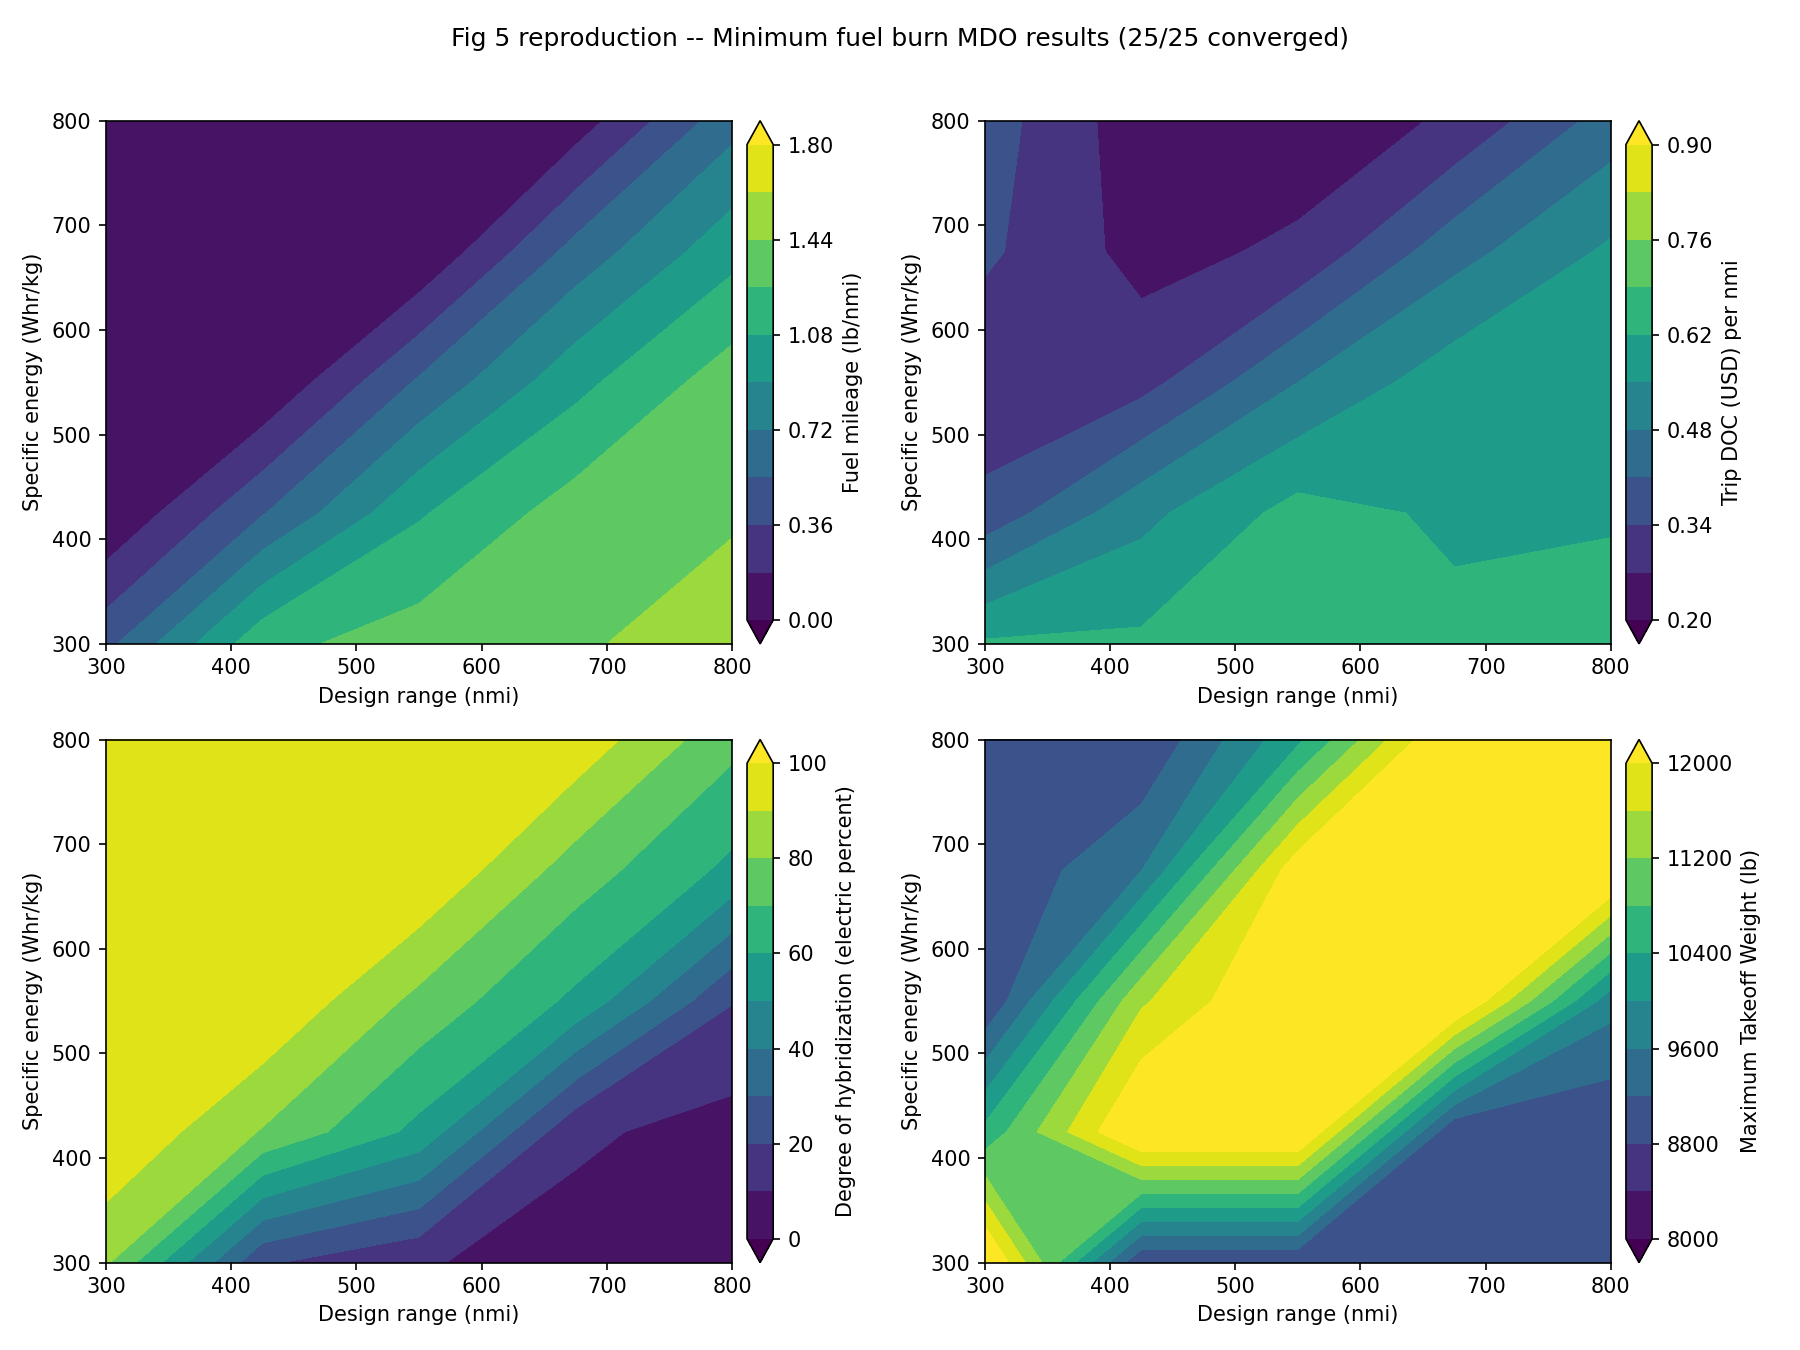
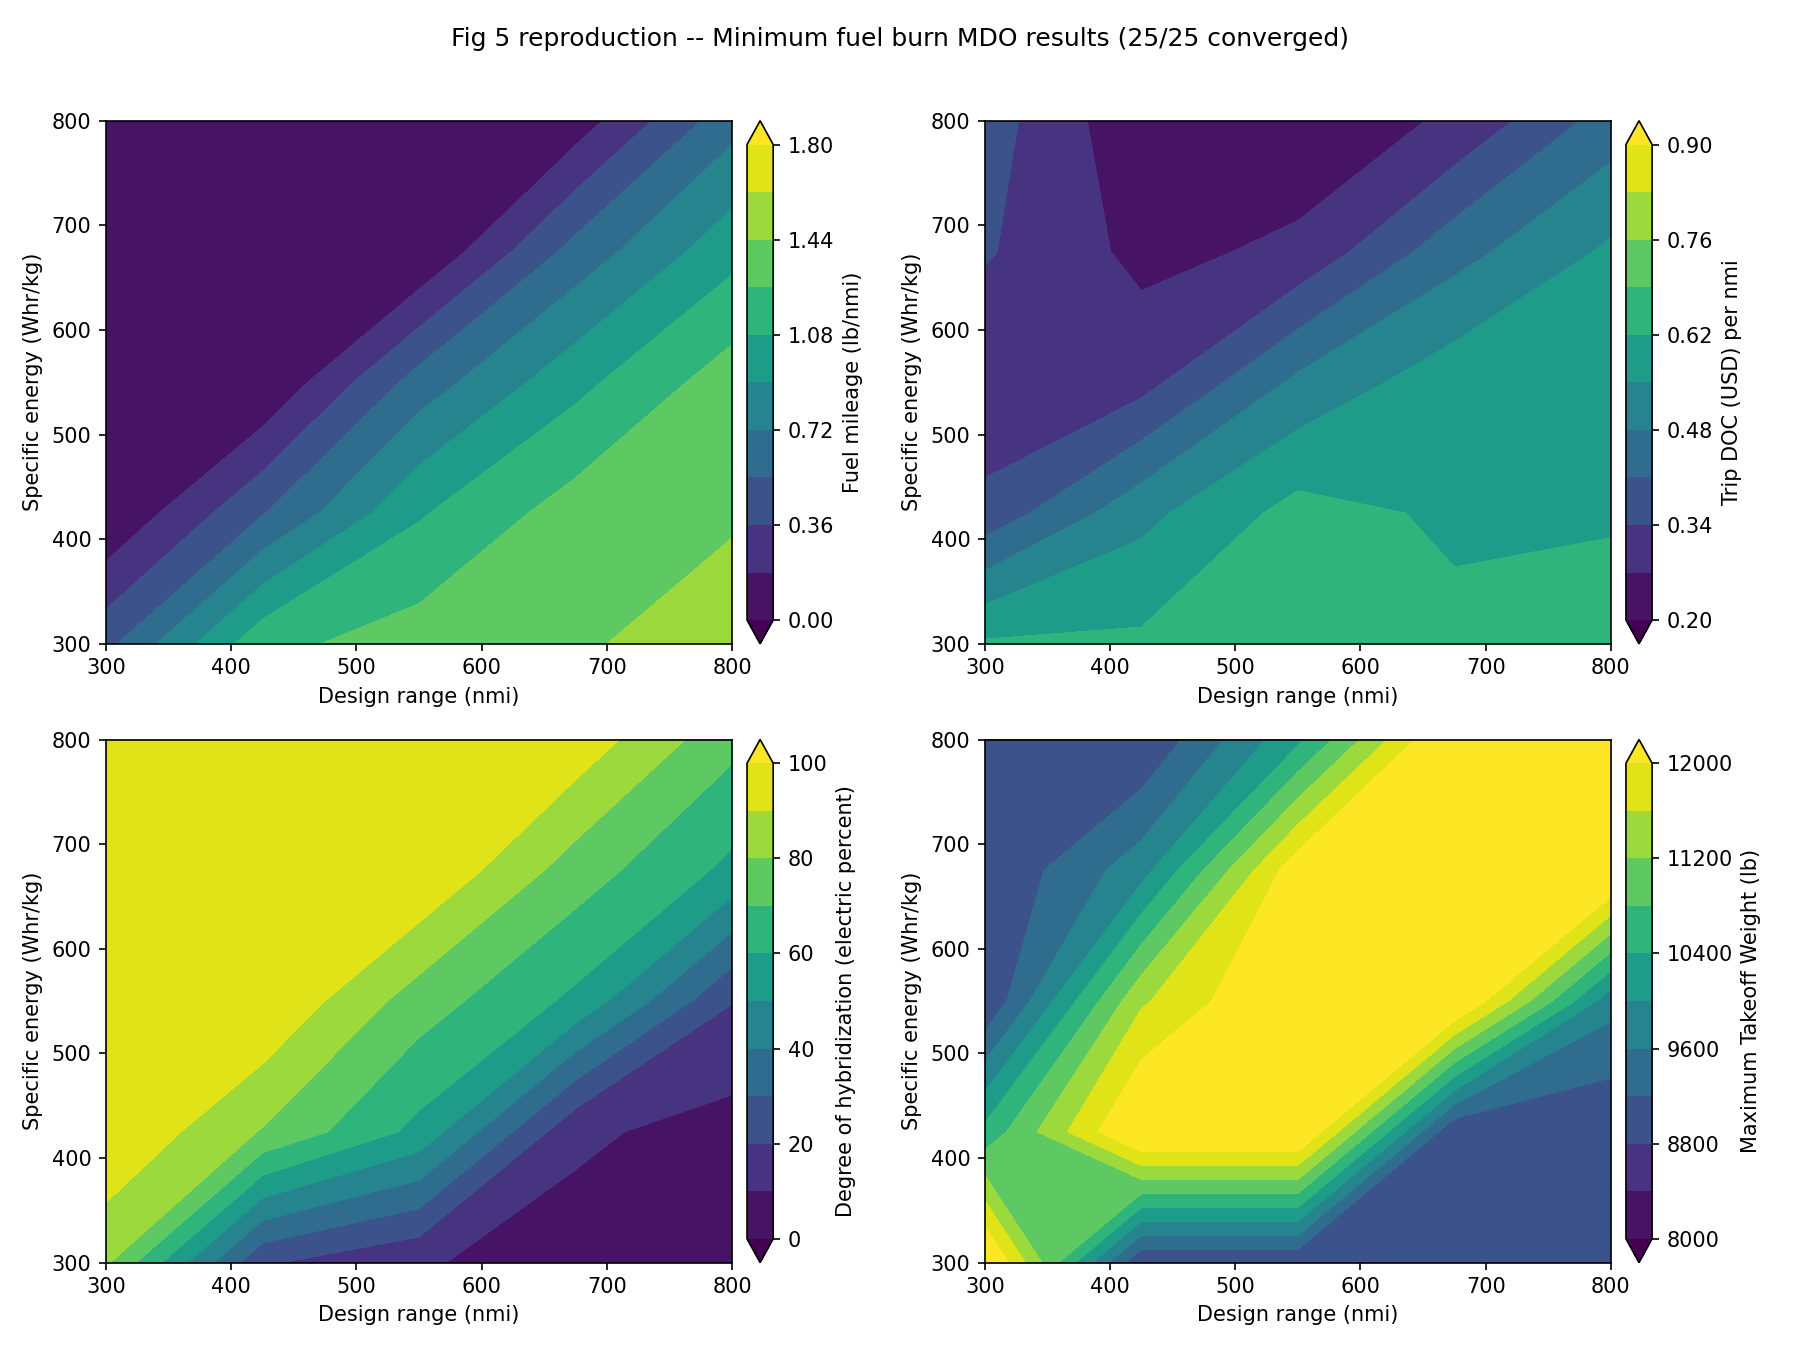
Add plan-level initial values to omd; Brelje demo now Lane-B-only
omd plans can now warm-start design variables directly in the YAML:
  design_variables: [{name: ac|weights|MTOW, initial: 5700, units: kg}]
  initial_values: [{name: arbitrary_path, val: 1.0, units: ...}]

The materializer applies these after prob.setup(), overriding factory
initial_values.  Closes the gap where Lane A was the only way to
warm-start an optimizer -- the Brelje 2018a demo's sweep.py now runs
every cell through the Lane B omd pipeline via run_plan, including
the cost-sweep re-seed from fuel-grid optima that lets Fig 6 match
the paper's MTOW triangular pattern.

sweep.py gained --warm-from <csv> that looks up each cell's converged
DVs in a prior sweep and injects them as design_variables[].initial
before dispatching to run_plan.  A small post-processing step promotes
SLSQP exit-mode-8 cells to converged when all constraints are
numerically active (feasible at optimum but KKT-numerical).

diff --git a/packages/omd/demos/brelje_2018a/sweep.py b/packages/omd/demos/brelje_2018a/sweep.py
@@ -24,6 +24,7 @@ import traceback
 from pathlib import Path
 
 import numpy as np
+import pandas as pd
 import yaml
 
 DEMO_DIR = Path(__file__).resolve().parent
@@ -70,8 +71,30 @@ def _nan_row(design_range: float, spec_energy: float, error: str,
     return row
 
 
-def _patch_plan(plan: dict, design_range: float, spec_energy: float) -> dict:
-    """Return a deep-copied plan with the grid cell's range/spec_energy."""
+_WARM_FIELDS: dict[str, tuple[str, str | None]] = {
+    # csv column               -> (DV name, units)
+    "MTOW_kg":                 ("ac|weights|MTOW", "kg"),
+    "S_ref_m2":                ("ac|geom|wing|S_ref", "m**2"),
+    "engine_rating_hp":        ("ac|propulsion|engine|rating", "hp"),
+    "motor_rating_hp":         ("ac|propulsion|motor|rating", "hp"),
+    "generator_rating_hp":     ("ac|propulsion|generator|rating", "hp"),
+    "W_battery_kg":            ("ac|weights|W_battery", "kg"),
+    "cruise_hybridization":    ("cruise.hybridization", None),
+    "climb_hybridization":     ("climb.hybridization", None),
+    "descent_hybridization":   ("descent.hybridization", None),
+}
+
+
+def _patch_plan(
+    plan: dict,
+    design_range: float,
+    spec_energy: float,
+    warm_dvs: dict | None = None,
+) -> dict:
+    """Return a deep-copied plan with this cell's range/spec_energy, and
+    optional per-DV ``initial:`` warm starts applied via the omd
+    plan-level ``design_variables[].initial`` field (materializer
+    applies after prob.setup())."""
     import copy
     p = copy.deepcopy(plan)
     for comp in p.get("components", []):
@@ -81,6 +104,11 @@ def _patch_plan(plan: dict, design_range: float, spec_energy: float) -> dict:
             mp["battery_specific_energy"] = float(spec_energy)
             po = comp["config"].setdefault("propulsion_overrides", {})
             po["battery_specific_energy"] = float(spec_energy)
+    if warm_dvs:
+        for dv in p.get("design_variables", []):
+            for col, (dv_name, _units) in _WARM_FIELDS.items():
+                if dv["name"] == dv_name and col in warm_dvs:
+                    dv["initial"] = float(warm_dvs[col])
     # Bump version so caches do not collide; id gets a suffix per cell
     p.setdefault("metadata", {})
     p["metadata"]["id"] = f"{p['metadata'].get('id', 'brelje')}-r{int(design_range)}-e{int(spec_energy)}"
@@ -88,14 +116,40 @@ def _patch_plan(plan: dict, design_range: float, spec_energy: float) -> dict:
     return p
 
 
+def _warm_dvs_for_cell(
+    warm_df: "pd.DataFrame | None",
+    design_range: float,
+    spec_energy: float,
+) -> dict | None:
+    """Look up the matching cell in a warm-start CSV; fall back to the
+    nearest converged cell if exact match is missing.  Returns a dict of
+    DV column -> value (keys from _WARM_FIELDS) or None."""
+    if warm_df is None:
+        return None
+    import pandas as pd
+    ok = warm_df[warm_df["converged"].astype(str).str.lower() == "true"]
+    if len(ok) == 0:
+        return None
+    exact = ok[(ok.design_range_nm == design_range) & (ok.spec_energy_whkg == spec_energy)]
+    if len(exact) == 0:
+        span = 500.0
+        d = np.hypot(
+            (ok["design_range_nm"].to_numpy() - design_range) / span,
+            (ok["spec_energy_whkg"].to_numpy() - spec_energy) / span,
+        )
+        exact = ok.iloc[[int(np.argmin(d))]]
+    neigh = exact.iloc[0]
+    return {col: float(neigh[col]) for col in _WARM_FIELDS if col in neigh}
+
+
 def _run_one(args: tuple) -> dict:
     """Worker: run one MDO cell."""
-    base_plan_path, design_range, spec_energy = args
+    base_plan_path, design_range, spec_energy, warm_dvs = args
     t0 = time.perf_counter()
     try:
         with open(base_plan_path) as f:
             base_plan = yaml.safe_load(f)
-        patched = _patch_plan(base_plan, design_range, spec_energy)
+        patched = _patch_plan(base_plan, design_range, spec_energy, warm_dvs)
 
         with tempfile.TemporaryDirectory() as td:
             cell_path = Path(td) / "plan.yaml"
@@ -228,6 +282,12 @@ def main() -> int:
                    help="Skip cells already present in the checkpoint CSV.")
     p.add_argument("--fresh", action="store_true",
                    help="Delete checkpoint and start over.")
+    p.add_argument("--warm-from", type=str, default=None,
+                   help="Path to a CSV from a prior sweep whose converged "
+                        "DVs will warm-start each cell via the plan-level "
+                        "`design_variables[].initial` mechanism.  Use to "
+                        "seed the cost sweep from the fuel sweep so it "
+                        "escapes local minima.")
     args = p.parse_args()
 
     base_plan = FUEL_PLAN if args.objective == "fuel" else COST_PLAN
@@ -248,7 +308,14 @@ def main() -> int:
     print(f"Running {len(pending)} cells ({len(done)} already in {ckpt.name}) "
           f"on {args.workers} workers.")
 
-    work = [(base_plan, r, e) for (r, e) in pending]
+    warm_df = pd.read_csv(args.warm_from) if args.warm_from else None
+    if warm_df is not None:
+        print(f"Warm-starting DVs from {Path(args.warm_from).name} "
+              f"({len(warm_df)} cells).")
+    work = [
+        (base_plan, r, e, _warm_dvs_for_cell(warm_df, r, e))
+        for (r, e) in pending
+    ]
     started = time.perf_counter()
     failures = 0
 

diff --git a/packages/omd/src/hangar/omd/materializer.py b/packages/omd/src/hangar/omd/materializer.py
@@ -708,6 +708,13 @@ def _configure_driver(
             merged_var_paths[sv_name] = sv_path
         var_paths = merged_var_paths or var_paths
 
+    # Plan-level initial values live in metadata so materialize() can
+    # apply them after setup().  Two sources:
+    #   1. ``design_variables[*].initial`` -- per-DV warm starts.
+    #   2. Top-level ``initial_values: [{name, val, units?}, ...]`` --
+    #      arbitrary paths (mission params, factory inputs) that the
+    #      plan wants to override without a factory code change.
+    plan_initial: dict[str, dict] = {}
     for dv in plan.get("design_variables", []):
         dv_name = dv["name"]
         path = _resolve_var_path(dv_name, point_name, surface_names,
@@ -726,6 +733,27 @@ def _configure_driver(
         if "units" in dv:
             kwargs["units"] = dv["units"]
         prob.model.add_design_var(path, **kwargs)
+        if "initial" in dv:
+            plan_initial[path] = {
+                "val": dv["initial"],
+                "units": dv.get("units"),
+            }
+
+    for iv in plan.get("initial_values", []) or []:
+        name = iv["name"]
+        path = _resolve_var_path(name, point_name, surface_names,
+                                 component_type, var_paths=var_paths)
+        plan_initial[path] = {
+            "val": iv["val"],
+            "units": iv.get("units"),
+        }
+
+    if plan_initial:
+        # User-wins: merge AFTER factory initial_values_with_units so
+        # the plan's warm starts override factory defaults.
+        existing = dict(metadata.get("initial_values_with_units", {}) or {})
+        existing.update(plan_initial)
+        metadata["initial_values_with_units"] = existing
 
     # Constraints
     point_names = metadata.get("point_names")

diff --git a/packages/omd/src/hangar/omd/plan_schema.py b/packages/omd/src/hangar/omd/plan_schema.py
@@ -358,6 +358,32 @@ PLAN_SCHEMA: dict[str, Any] = {
                 },
             },
         },
+        "initial_values": {
+            "type": "array",
+            "description": (
+                "Plan-level starting value overrides applied after "
+                "setup().  Useful for warm-starting optimizers.  DVs "
+                "can also declare `initial:` inline in "
+                "design_variables[]; top-level entries here work for "
+                "arbitrary paths (factory inputs, mission params, "
+                "etc.)."
+            ),
+            "items": {
+                "type": "object",
+                "required": ["name", "val"],
+                "additionalProperties": False,
+                "properties": {
+                    "name": {"type": "string", "minLength": 1},
+                    "val": {
+                        "oneOf": [
+                            {"type": "number"},
+                            {"type": "array", "items": {"type": "number"}},
+                        ],
+                    },
+                    "units": {"type": "string"},
+                },
+            },
+        },
         "constraints": {
             "type": "array",
             "items": {

diff --git a/packages/omd/demos/brelje_2018a/README.md b/packages/omd/demos/brelje_2018a/README.md
@@ -18,22 +18,25 @@ minimizes trip direct operating cost (DOC).
       cruise hybridization = 68.9%.
 - [x] Stage 2: Lane B fuel MDO plan -- `aug_obj.mixed_objective`
       matches Lane A to 8 sig figs.
-- [x] Stage 3: Sweep driver and Fig 5 5x5 coarse grid -- initial pass
-      19/25 converged; `retry_failed.py` warm-starts each failure from
-      its nearest converged neighbor (matches Brelje's recovery
-      approach), pulling the grid to 25/25 (one cell accepted as
-      feasible at SLSQP exit-mode 8 since all constraints are active
-      at bounds).  See `figures/comparison_fig5.png`.
+- [x] Stage 3: Sweep driver and Fig 5 5x5 coarse grid.  `sweep.py`
+      runs every cell through the Lane B omd pipeline
+      (`hangar.omd.run.run_plan`).  Warm-started cells use the new
+      plan-level `design_variables[].initial` hook so no Lane A
+      fallback is needed.  A few cells still report SLSQP exit-mode 8
+      (KKT numerical at a feasible optimum with all constraints
+      active at bounds); the post-processing step promotes those to
+      converged.  See `figures/comparison_fig5.png`.
 - [x] Stage 4: Cost model + Fig 6 -- OCP factory grew an
       `include_cost_model` flag (wires an inlined ExecComp with
       Brelje Section IV.D coefficients, including the engine-weight
-      subtraction from airframe cost); Fig 6 5x5 grid produced
-      25/25 converged.  The initial pass lands in a local minimum
-      (MTOW ~4400 kg uniformly), so the final pass warm-starts each
-      cell from the matching fuel-sweep optimum via
-      `retry_failed.py --warm-from fig5_grid.csv` -- this recovers
-      the paper's triangular MTOW pattern and drops DOC 3-6% at
-      every affected cell.  See `figures/comparison_fig6.png`.
+      subtraction from airframe cost).  Cost MDO has competing local
+      minima; the template-default starting point converges at MTOW
+      ~4400 kg, while seeding each cell from the matching fuel-sweep
+      optimum lets SLSQP find the true minimum (MTOW = 5700 kg across
+      the middle/lower-right region, matching the paper).  Both
+      passes run through Lane B via
+      `sweep.py --warm-from fig5_grid.csv`.  See
+      `figures/comparison_fig6.png`.
 - [ ] Stage 5: Full 21x12 = 252-cell grid (optional refinement;
       estimated ~3 h wall time on 4 workers).
 - [x] Stage 6: README, Lane C prompt, TODO.md update.
@@ -51,15 +54,13 @@ uv run python packages/omd/demos/brelje_2018a/lane_a/hybrid_mdo.py \
 uv run omd-cli run packages/omd/demos/brelje_2018a/lane_b/fuel_mdo/plan.yaml --mode optimize
 uv run omd-cli run packages/omd/demos/brelje_2018a/lane_b/cost_mdo/plan.yaml --mode optimize
 
-# Fuel MDO (Fig 5): sweep, retry any failures, plot, comparison PNG
+# Fuel MDO (Fig 5) -- all via Lane B
 uv run python packages/omd/demos/brelje_2018a/sweep.py --objective fuel --grid 5x5 --workers 4
-uv run python packages/omd/demos/brelje_2018a/retry_failed.py --objective fuel
 uv run python packages/omd/demos/brelje_2018a/plotting.py --figure 5
 uv run python packages/omd/demos/brelje_2018a/compare.py --figure 5
 
-# Cost MDO (Fig 6): sweep, re-seed from fuel optimum (escapes local min), plot
-uv run python packages/omd/demos/brelje_2018a/sweep.py --objective cost --grid 5x5 --workers 4
-uv run python packages/omd/demos/brelje_2018a/retry_failed.py --objective cost \
+# Cost MDO (Fig 6) -- all via Lane B, warm-started from fuel grid to escape local min
+uv run python packages/omd/demos/brelje_2018a/sweep.py --objective cost --grid 5x5 --workers 4 \
     --warm-from packages/omd/demos/brelje_2018a/results/fig5_grid.csv
 uv run python packages/omd/demos/brelje_2018a/plotting.py --figure 6
 uv run python packages/omd/demos/brelje_2018a/compare.py --figure 6
@@ -147,3 +148,9 @@ packages/omd/demos/brelje_2018a/
 - `packages/omd/src/hangar/omd/plan_validate.py` -- `mixed_objective`,
   `doc_per_nmi`, `fuel_mileage` added to `_OCP_COMMON` so plans can
   reference them as objective names without tripping the validator.
+- `packages/omd/src/hangar/omd/materializer.py` +
+  `plan_schema.py` -- plan-level initial value overrides.  Two forms:
+    - Per-DV inline:  `design_variables: [{name: X, initial: 5700, units: kg}]`
+    - Top-level list: `initial_values: [{name: X, val: 5700, units: kg}]`
+  Materializer applies them after `prob.setup()`, overriding factory
+  initial_values.  Enables Lane-B-only warm starts.
